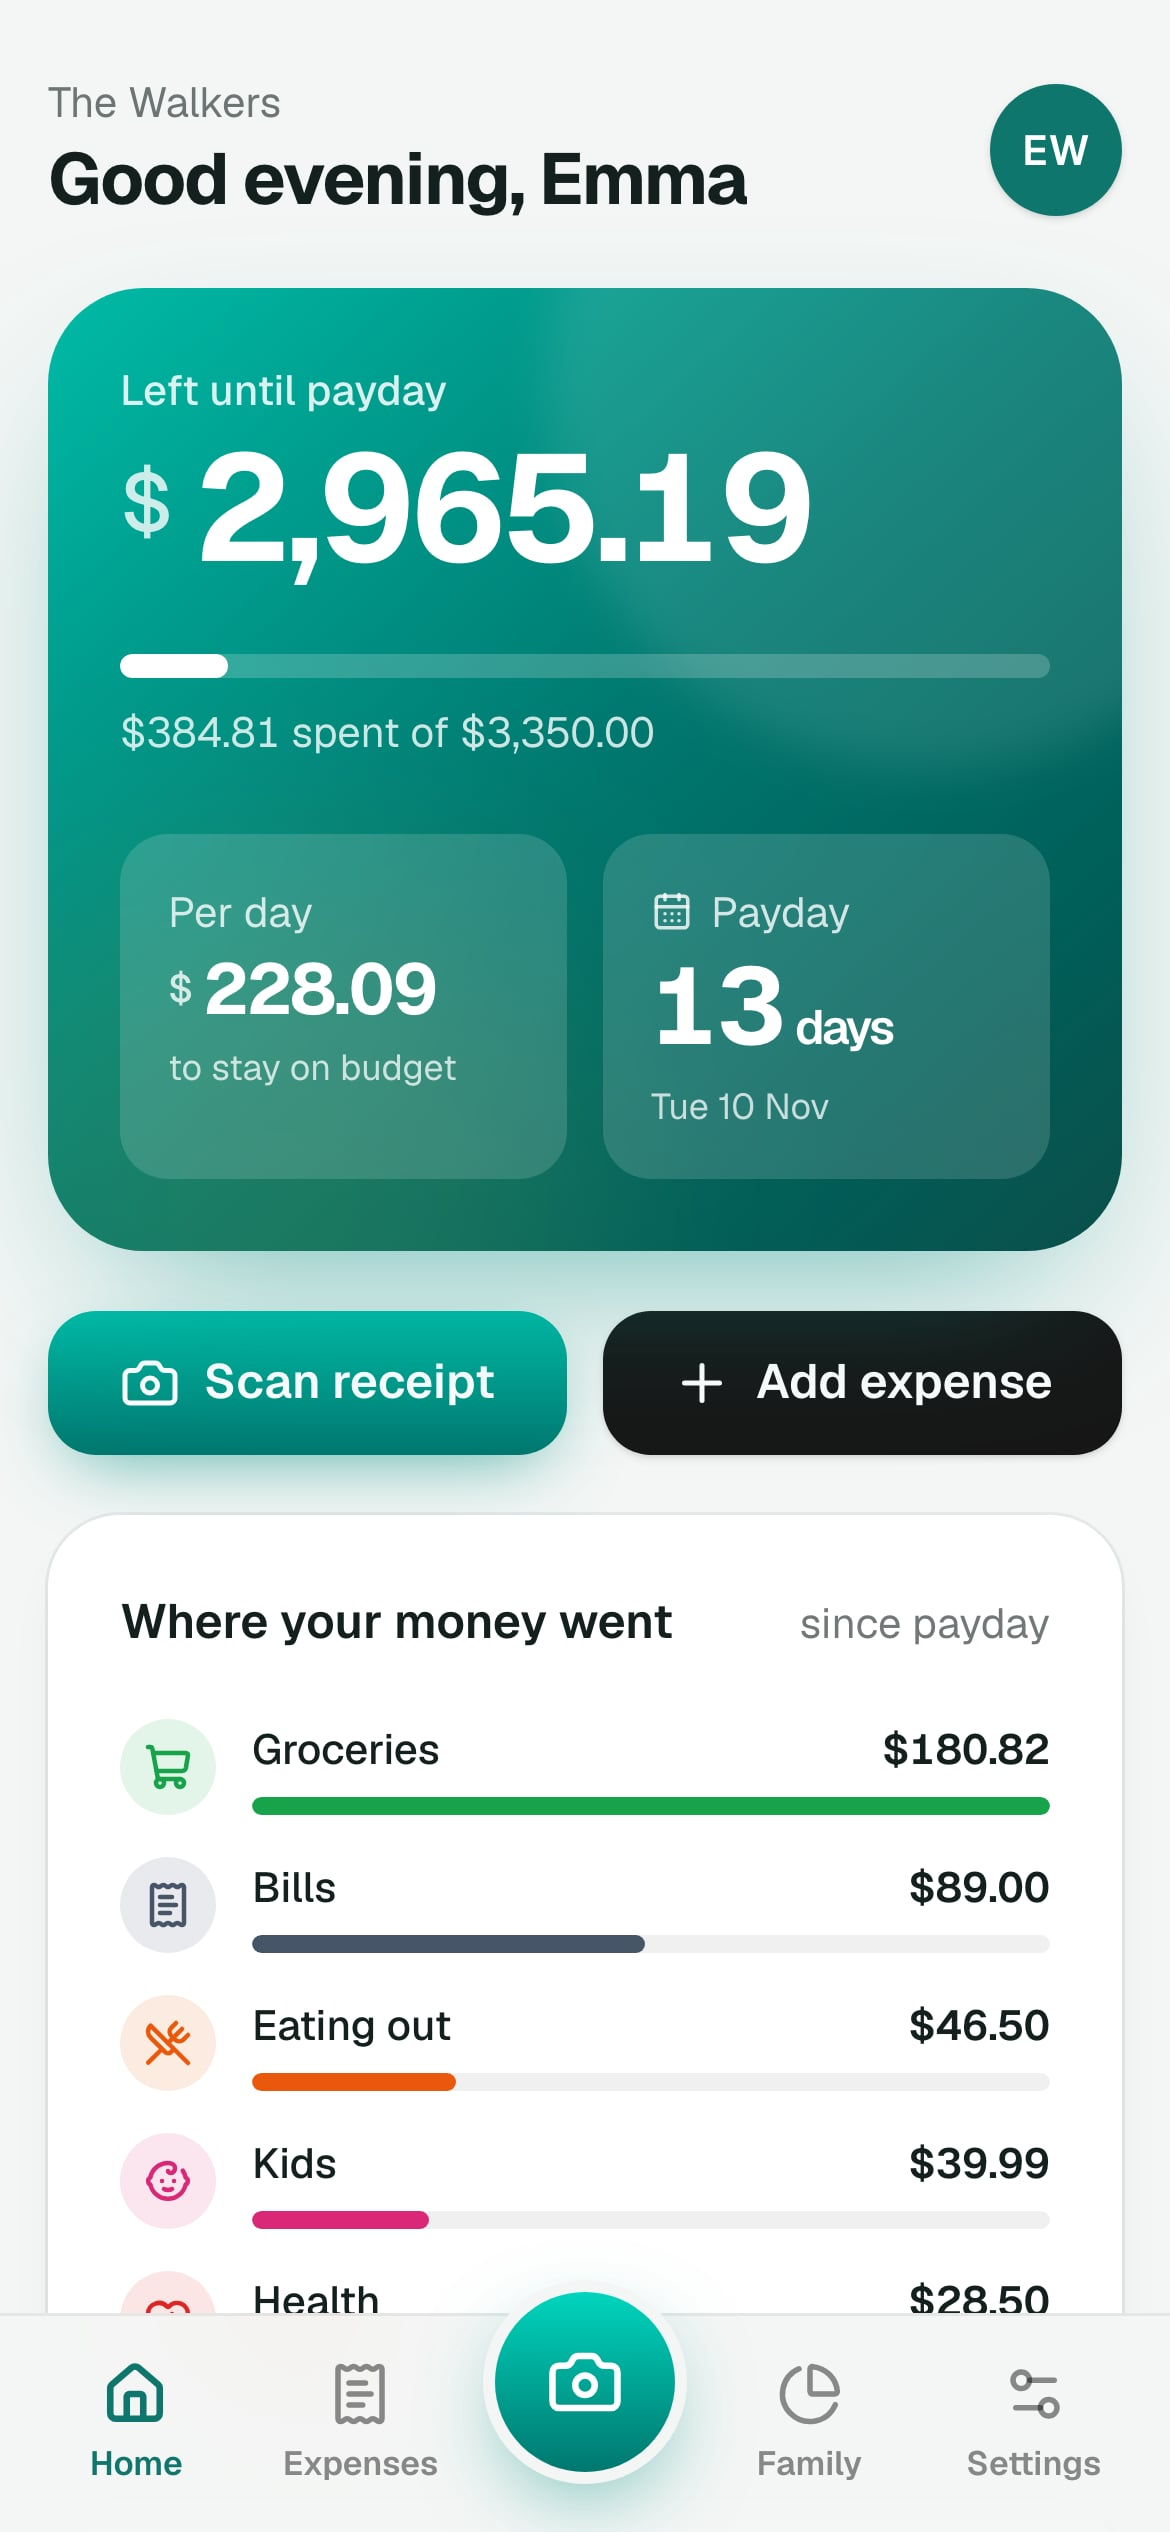
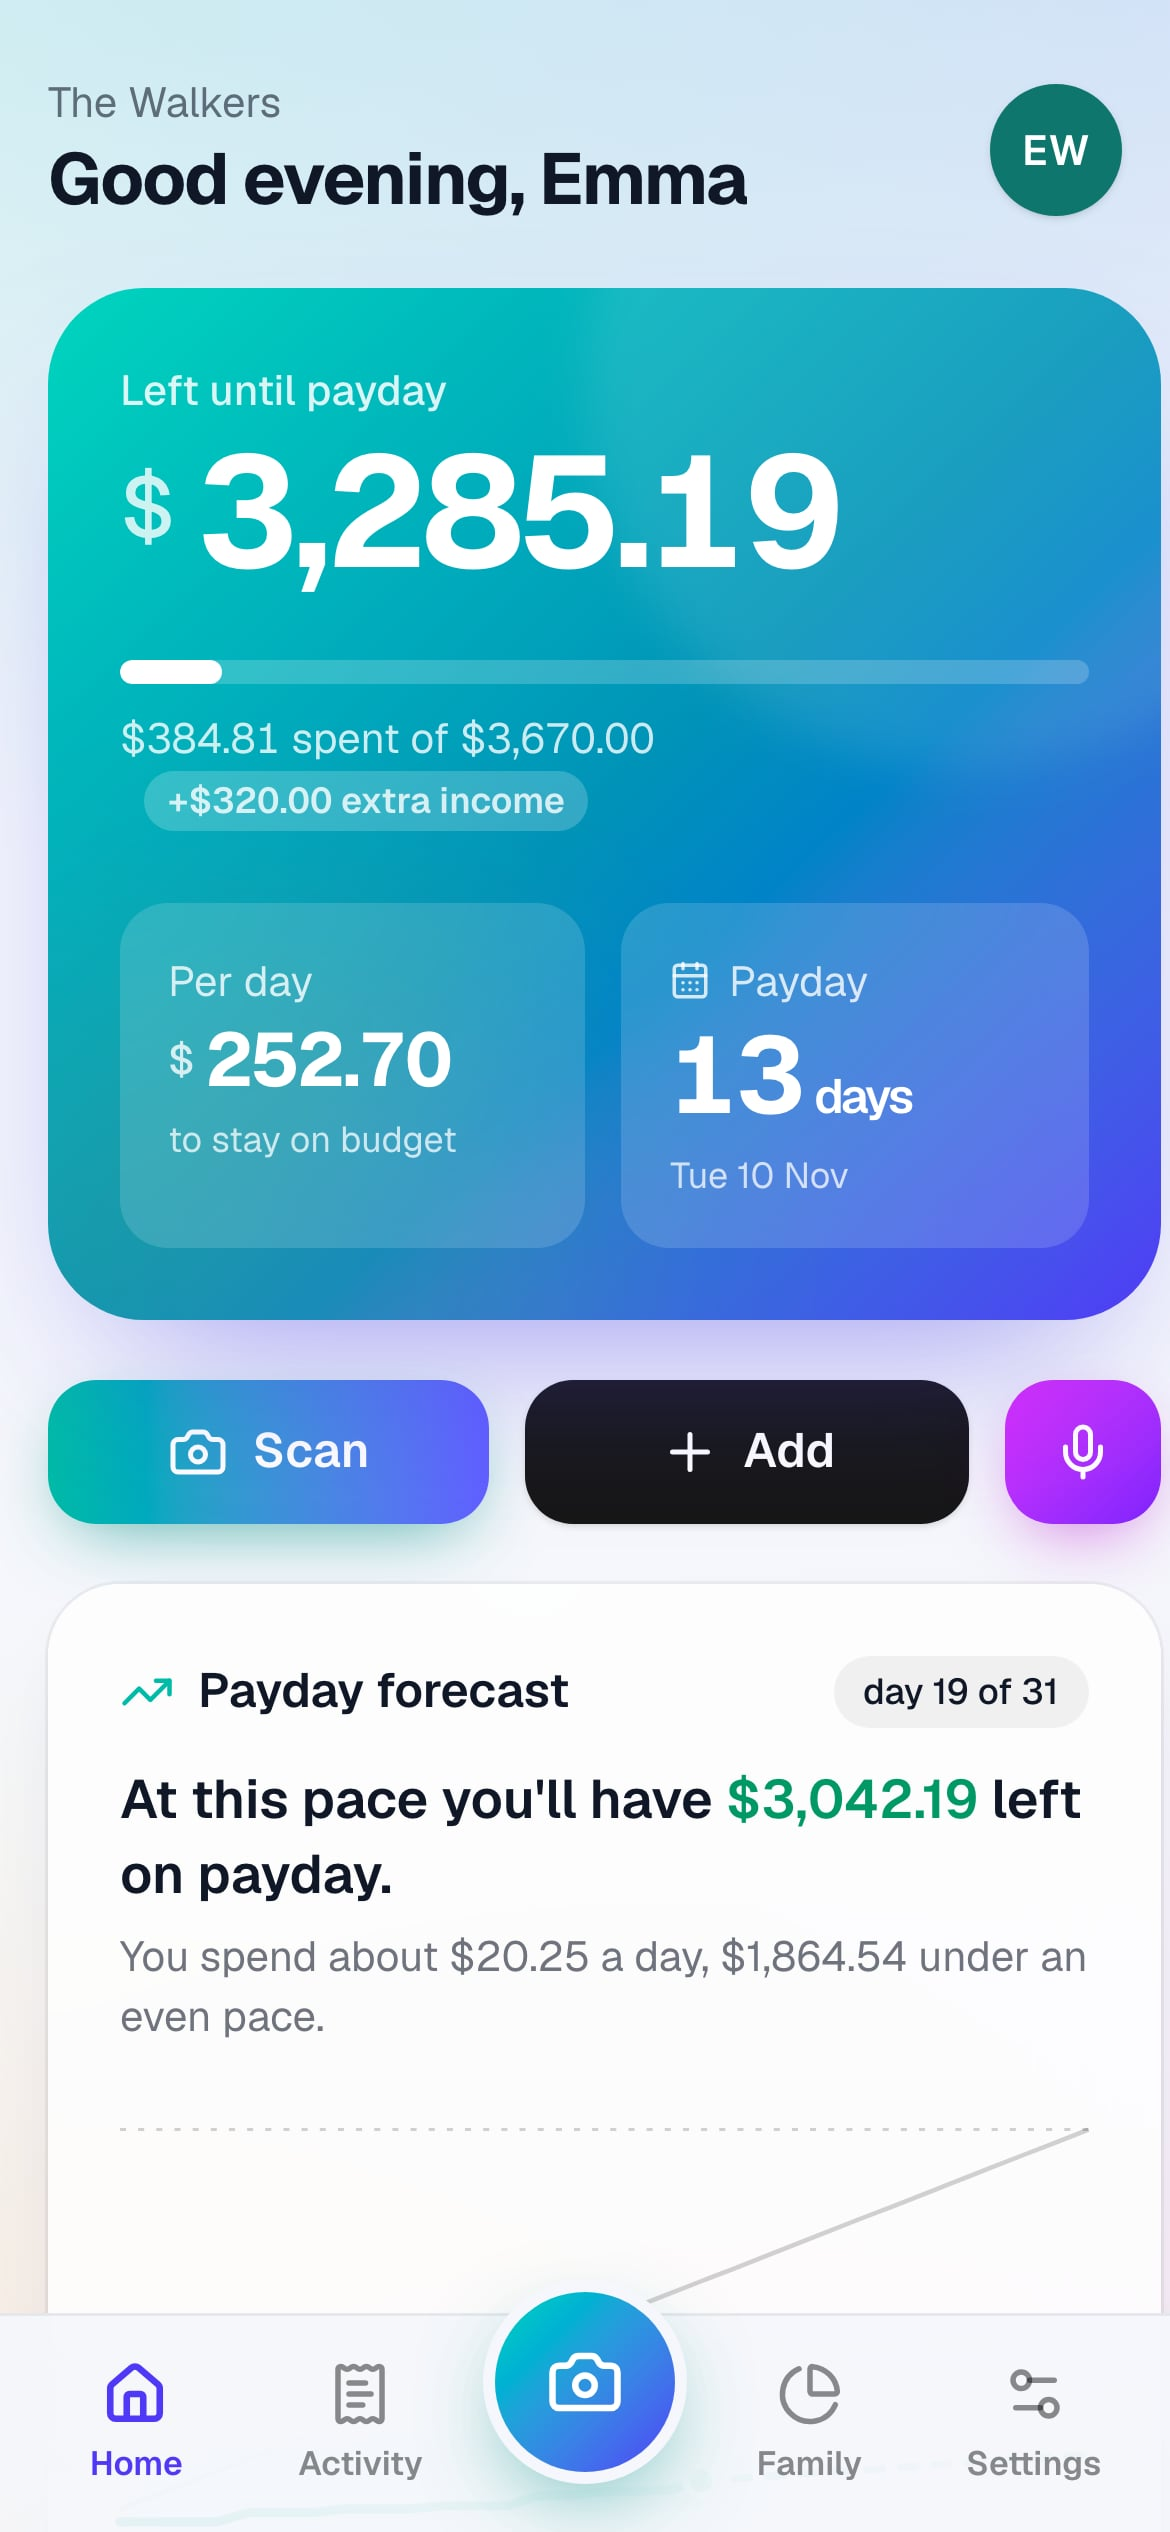
Show the coach, voice, forecast and income on the landing page
New feature tiles with a sample coach answer, fresh screenshots of the
new home screen, and short action labels on phones.

diff --git a/src/app/page.tsx b/src/app/page.tsx
@@ -1,4 +1,5 @@
 import {
+  ArrowDownLeft,
   ArrowRight,
   CalendarClock,
   Camera,
@@ -10,9 +11,11 @@ import {
   KeyRound,
   Lock,
   MapPinOff,
+  Mic,
   ScanLine,
   Smartphone,
   Sparkles,
+  TrendingUp,
   Trash2,
   Users,
 } from "lucide-react";
@@ -132,7 +135,7 @@ export default function Landing() {
           <div className="hero-in">
             <Pill>
               <Sparkles size={15} className="text-amber-300" aria-hidden />
-              Receipts read by Meta SAM 3.1 and Muse Spark 1.3
+              Powered by Meta SAM 3.1, Muse Spark 1.3 and Muse Voice Transcribe
             </Pill>
             <h1 className="mt-7 text-5xl leading-[0.98] font-bold tracking-[-0.035em] text-balance sm:text-7xl">
               Know what&apos;s left.{" "}
@@ -256,6 +259,33 @@ export default function Landing() {
               Every line read, sorted into categories and checked against the printed total. Discounts and bottle deposits
               land in the right place.
             </Tile>
+            <Tile
+              icon={<Sparkles size={22} />}
+              title="A money coach that knows your numbers"
+              className="md:col-span-3"
+              visual={
+                <div className="mt-5 rounded-2xl bg-white/[0.05] p-4 text-sm">
+                  <p className="ml-auto w-fit rounded-2xl rounded-br-md bg-gradient-to-r from-teal-500 to-indigo-500 px-3 py-2 text-white">Can I spend $300 on a weekend trip?</p>
+                  <p className="mt-2 w-fit max-w-[90%] rounded-2xl rounded-bl-md bg-white/10 px-3 py-2 text-white/85">
+                    <span className="mr-1.5 rounded-full bg-emerald-400/20 px-2 py-0.5 text-xs font-semibold text-emerald-300">Fits</span>
+                    You&apos;d have $5,107.50 left, about $392.88 a day until payday.
+                  </p>
+                </div>
+              }
+            >
+              Muse Spark 1.3 reads your pay period and writes three insights a day. Ask it anything about your own money.
+            </Tile>
+            <Tile icon={<Mic size={22} />} title="Just say it" className="md:col-span-3">
+              &ldquo;Groceries at FreshMart, 42 dollars.&rdquo; Muse Voice Transcribe writes it down and the expense is filled in
+              for you to confirm.
+            </Tile>
+            <Tile icon={<TrendingUp size={22} />} title="Payday forecast" className="md:col-span-3">
+              See where today&apos;s pace leads: what will be left on payday, or the day the money runs out, while there is
+              still time to change it.
+            </Tile>
+            <Tile icon={<ArrowDownLeft size={22} />} title="Money in, too" className="md:col-span-3">
+              Bonuses, side jobs, refunds and gifts add to what you can spend until payday, instantly.
+            </Tile>
             <Tile icon={<Users size={22} />} title="One household" className="md:col-span-3">
               Invite your partner with a one-time code. Everyone keeps their own payday and daily number; the family overview
               shows the whole picture.
@@ -277,7 +307,7 @@ export default function Landing() {
             >
               Written the way you write it.
             </Tile>
-            <Tile icon={<Smartphone size={22} />} title="On every phone" className="md:col-span-2">
+            <Tile icon={<Smartphone size={22} />} title="On every phone and computer" className="md:col-span-2">
               Installs from the browser on iPhone and Android in seconds. No app store, no updates to wait for.
             </Tile>
           </div>

diff --git a/src/app/app/dashboard.tsx b/src/app/app/dashboard.tsx
@@ -152,16 +152,18 @@ export function Dashboard({ household, me, settings, fixedCosts }: Props) {
     <>
       <Link
         href="/app/scan"
+        aria-label="Scan receipt"
         className="flex h-12 items-center justify-center gap-2 rounded-2xl bg-gradient-to-r from-teal-500 to-indigo-500 px-5 font-semibold text-white shadow-[0_8px_24px_-8px_rgba(13,148,136,0.7)] transition hover:brightness-110 active:scale-[0.98]"
       >
-        <Camera size={20} aria-hidden /> Scan receipt
+        <Camera size={20} aria-hidden /> Scan<span className="hidden sm:inline">&nbsp;receipt</span>
       </Link>
       <button
         type="button"
         onClick={() => setAdding("expense")}
+        aria-label="Add expense"
         className="flex h-12 items-center justify-center gap-2 rounded-2xl bg-neutral-900 px-5 font-semibold text-white shadow-sm transition hover:bg-neutral-800 active:scale-[0.98] dark:bg-white dark:text-neutral-900 dark:hover:bg-teal-50"
       >
-        <Plus size={20} aria-hidden /> Add expense
+        <Plus size={20} aria-hidden /> Add<span className="hidden sm:inline">&nbsp;expense</span>
       </button>
       <button
         type="button"

diff --git a/public/sw.js b/public/sw.js
@@ -5,7 +5,7 @@
  * - API calls are never cached; data lives in the device database instead.
  */
 
-const VERSION = "v19";
+const VERSION = "v20";
 const PAGES = `pages-${VERSION}`;
 const ASSETS = `assets-${VERSION}`;
 const APP_SHELL = ["/", "/app", "/app/expenses", "/app/scan", "/app/household", "/app/overview", "/app/member", "/app/settings", "/join", "/signin", "/signup"];
